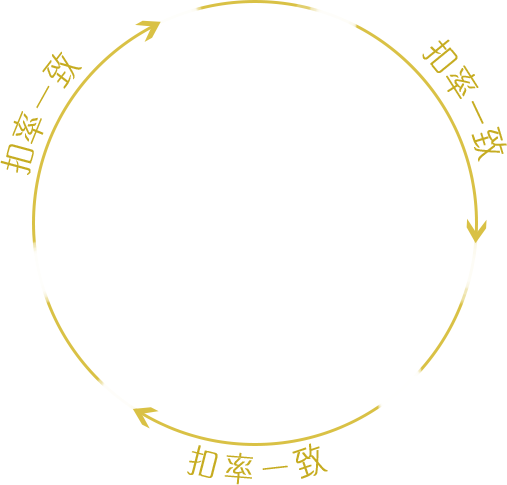
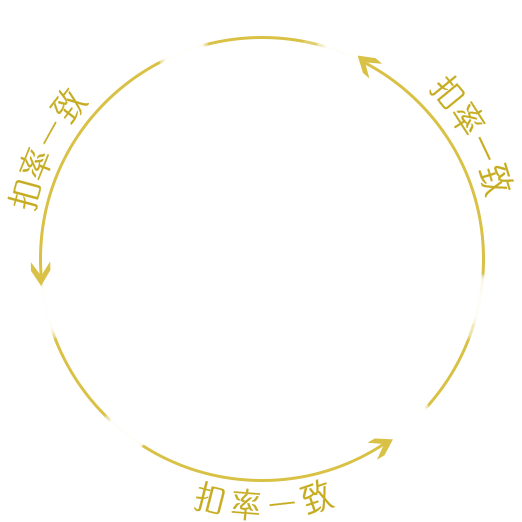
修改

diff --git a/src/App.vue b/src/App.vue
@@ -24,7 +24,7 @@
       <swiper-slide class="swiper-item">
         <div class="item item-2">
           <img class="jieshao" src="~@/assets/images/jieshao.png">
-          <img class="jieshao-detail" :class="{ 'delay-animation': isSecond }" src="~@/assets/images/item2bg.jpg">
+          <img class="jieshao-detail" :class="{ 'delay-animation': isSecond }" src="~@/assets/images/item2bg.png">
         </div>
       </swiper-slide>
       <swiper-slide class="swiper-item">
@@ -66,9 +66,10 @@
            <img class="jiamengbg" src="~@/assets/images/item6bg.png">
            <img class="triangle" :class="{ 'delay-animation': isSixth }" src="~@/assets/images/triangle.png">
            <img class="protocol" :class="{ 'delay-animation-1': isSixth }" src="~@/assets/images/protocol.png">
-           <img class="zuo" :class="{ 'delay-animation-2': isSixth }" src="~@/assets/images/zuo.png">
+           <img class="circle" :class="{ 'delay-animation-2': isSixth }" src="~@/assets/images/circle.png">
+           <!-- <img class="zuo" :class="{ 'delay-animation-2': isSixth }" src="~@/assets/images/zuo.png">
            <img class="xia" :class="{ 'delay-animation-2': isSixth }" src="~@/assets/images/xia.png">
-           <img class="you" :class="{ 'delay-animation-2': isSixth }" src="~@/assets/images/you.png">
+           <img class="you" :class="{ 'delay-animation-2': isSixth }" src="~@/assets/images/you.png"> -->
         </div>
       </swiper-slide>
       <swiper-slide class="swiper-item">
@@ -317,33 +318,33 @@ export default {
         shareicon: 'http://img.puman.cn/Content/iope/baicaoji.jpg' // 分享图片
       },
       dots: [
-        {  left: '2.72rem', top: '7.52rem', duration: '8s', delay: '0s', label: '新疆'},
-        {  left: '6.16rem', top: '7.5467rem', duration: '6s', delay: '3s', label: '内蒙古'},
-        {  left: '7.8667rem', top: '6.3733rem', duration: '8s', delay: '3s', label: '黑龙江'},
-        {  left: '8rem', top: '7.0133rem', duration: '8s', delay: '5s', label: '吉林'},
+        {  left: '2.72rem', top: '7.52rem', duration: '6s', delay: '0s', label: '新疆'},
+        {  left: '6.16rem', top: '7.5467rem', duration: '4s', delay: '3s', label: '内蒙古'},
+        {  left: '7.8667rem', top: '6.3733rem', duration: '6s', delay: '3s', label: '黑龙江'},
+        {  left: '8rem', top: '7.0133rem', duration: '4s', delay: '5s', label: '吉林'},
         {  left: '7.6rem', top: '7.44rem', duration: '6s', delay: '5s', label: '辽宁'},
-        {  left: '6.6667rem', top: '8.1067rem', duration: '10s', delay: '4s', label: '河北'},
-        {  left: '6.2667rem', top: '8.24rem', duration: '8s', delay: '4s', label: '山西'},
-        {  left: '7.0667rem', top: '8.3467rem', duration: '8s', delay: '2s', label: '山东'},
-        {  left: '6.48rem', top: '8.7733rem', duration: '6s', delay: '0s', label: '河南'},
-        {  left: '7.0667rem', top: '9.1467rem', duration: '10s', delay: '2s', label: '安徽'},
-        {  left: '7.4667rem', top: '8.9067rem', duration: '8s', delay: '4s', label: '江苏'},
-        {  left: '6.2933rem', top: '9.2267rem', duration: '6s', delay: '6s', label: '湖北'},
+        {  left: '6.6667rem', top: '8.1067rem', duration: '4s', delay: '4s', label: '河北'},
+        {  left: '6.2667rem', top: '8.24rem', duration: '6s', delay: '4s', label: '山西'},
+        {  left: '7.0667rem', top: '8.3467rem', duration: '4s', delay: '2s', label: '山东'},
+        {  left: '6.48rem', top: '8.7733rem', duration: '5s', delay: '0s', label: '河南'},
+        {  left: '7.0667rem', top: '9.1467rem', duration: '5s', delay: '2s', label: '安徽'},
+        {  left: '7.4667rem', top: '8.9067rem', duration: '6s', delay: '4s', label: '江苏'},
+        {  left: '6.2933rem', top: '9.2267rem', duration: '7s', delay: '6s', label: '湖北'},
         {  left: '6.9067rem', top: '9.7867rem', duration: '8s', delay: '8s', label: '江西'},
-        {  left: '7.2267rem', top: '10.0267rem', duration: '10s', delay: '4s', label: '福建'},
-        {  left: '7.52rem', top: '9.52rem', duration: '8s', delay: '6s', label: '浙江'},
-        {  left: '6.2933rem', top: '9.76rem', duration: '6s', delay: '8s', label: '湖南'},
+        {  left: '7.2267rem', top: '10.0267rem', duration: '5s', delay: '4s', label: '福建'},
+        {  left: '7.52rem', top: '9.52rem', duration: '4s', delay: '6s', label: '浙江'},
+        {  left: '6.2933rem', top: '9.76rem', duration: '5s', delay: '8s', label: '湖南'},
         {  left: '6.6133rem', top: '10.48rem', duration: '6s', delay: '10s', label: '广东'},
-        {  left: '5.84rem', top: '10.5067rem', duration: '6s', delay: '4s', label: '广西'},
-        {  left: '6.0267rem', top: '11.2rem', duration: '6s', delay: '4s', label: '海南'},
-        {  left: '4.6667rem', top: '10.4rem', duration: '10s', delay: '6s', label: '云南'},
-        {  left: '5.5733rem', top: '10rem', duration: '8s', delay: '6s', label: '贵州'},
-        {  left: '4.8533rem', top: '9.3333rem', duration: '6s', delay: '4s', label: '四川'},
-        {  left: '5.6533rem', top: '9.4933rem', duration: '6s', delay: '4s', label: '重庆'},
-        {  left: '3.9733rem', top: '8.5333rem', duration: '8s', delay: '0s', label: '青海'},
+        {  left: '5.84rem', top: '10.5067rem', duration: '7s', delay: '4s', label: '广西'},
+        {  left: '6.0267rem', top: '11.2rem', duration: '8s', delay: '4s', label: '海南'},
+        {  left: '4.6667rem', top: '10.4rem', duration: '7s', delay: '6s', label: '云南'},
+        {  left: '5.5733rem', top: '10rem', duration: '6s', delay: '6s', label: '贵州'},
+        {  left: '4.8533rem', top: '9.3333rem', duration: '5s', delay: '4s', label: '四川'},
+        {  left: '5.6533rem', top: '9.4933rem', duration: '4s', delay: '4s', label: '重庆'},
+        {  left: '3.9733rem', top: '8.5333rem', duration: '5s', delay: '0s', label: '青海'},
         {  left: '5.1467rem', top: '8.6133rem', duration: '6s', delay: '4s', label: '甘肃'},
-        {  left: '5.3867rem', top: '8.24rem', duration: '6s', delay: '2s', label: '宁夏'},
-        {  left: '5.7867rem', top: '8.8533rem', duration: '6s', delay: '2s', label: '陕西'},
+        {  left: '5.3867rem', top: '8.24rem', duration: '7s', delay: '2s', label: '宁夏'},
+        {  left: '5.7867rem', top: '8.8533rem', duration: '8s', delay: '2s', label: '陕西'},
       ]
     }
   },
@@ -609,58 +610,53 @@ export default {
       .group1 {
         position: absolute;
         width: 5.9733rem;
-        left: 0;
+        // left: -100%;
         top: 5.3333rem;
-        opacity: 0;
         &.delay-animation {
-          animation: fadeIn ease-in 2s forwards;
+          animation: slide2Left ease-in 1.5s forwards;
         }
       }
       .group2 {
         position: absolute;
         width: 4.0267rem;
-        right: 0;
+        right: -100%;
         top: 5.3333rem;
-        opacity: 0;
         &.delay-animation {
-          animation: fadeIn ease-in 2s forwards;
+          animation: slide2Right ease-in 1.5s forwards;
           animation-delay: 1s;
         }
       }
       .group3 {
         position: absolute;
         width: 2.8267rem;
-        left: 0;
+        left: -100%;
         top: 8.9333rem;
-        opacity: 0;
         z-index: 12;
         &.delay-animation {
-          animation: fadeIn ease-in 2s forwards;
+          animation: slide2Left ease-in 1.5s forwards;
           animation-delay: 2s;
         }
       }
       .group4 {
         position: absolute;
         width: 2.8533rem;
-        left: 0;
+        left: -100%;
         top: 11.78rem;
-        opacity: 0;
         z-index: 11;
         &.delay-animation {
-          animation: fadeIn ease-in 2s forwards;
-          animation-delay: 3s;
+          animation: slide2Left ease-in 1.5s forwards;
+          animation-delay: 2s;
         }
       }
       .group5 {
         position: absolute;
         width: 7.16rem;
-        right: 0;
+        right: -100%;
         top: 8.9333rem;
-        opacity: 0;
         z-index: 9;
         &.delay-animation {
-          animation: fadeIn ease-in 2s forwards;
-          animation-delay: 4s;
+          animation: slide2Right ease-in 1.5s forwards;
+          animation-delay: 3s;
         }
       }
     }
@@ -689,7 +685,7 @@ export default {
         top: 4.74rem;
         opacity: 0;
         &.delay-animation {
-          animation: fadeIn ease-in 2s forwards;
+          animation: fadeIn ease-in 1.5s forwards;
           animation-delay: 1s;
         }
       }
@@ -700,7 +696,7 @@ export default {
         top: 5.52rem;
         opacity: 0;
         &.delay-animation {
-          animation: fadeIn ease-in 2s forwards;
+          animation: fadeIn ease-in 1.5s forwards;
           animation-delay: 2s;
         }
       }
@@ -711,7 +707,7 @@ export default {
         top: 6.57rem;
         opacity: 0;
         &.delay-animation {
-          animation: fadeIn ease-in 2s forwards;
+          animation: fadeIn ease-in 1.5s forwards;
           animation-delay: 3s;
         }
       }
@@ -722,7 +718,7 @@ export default {
         top: 6.60rem;
         opacity: 0;
         &.delay-animation {
-          animation: fadeIn ease-in 2s forwards;
+          animation: fadeIn ease-in 1.5s forwards;
           animation-delay: 4s;
         }
       }
@@ -733,7 +729,7 @@ export default {
         top: 8.60rem;
         opacity: 0;
         &.delay-animation {
-          animation: fadeIn ease-in 2s forwards;
+          animation: fadeIn ease-in 1.5s forwards;
           animation-delay: 5s;
         }
       }
@@ -744,7 +740,7 @@ export default {
         top: 8.75rem;
         opacity: 0;
         &.delay-animation {
-          animation: fadeIn ease-in 2s forwards;
+          animation: fadeIn ease-in 1.5s forwards;
           animation-delay: 6s;
         }
       }
@@ -755,7 +751,7 @@ export default {
         top: 11.10rem;
         opacity: 0;
         &.delay-animation {
-          animation: fadeIn ease-in 2s forwards;
+          animation: fadeIn ease-in 1.5s forwards;
           animation-delay: 7s;
         }
       }
@@ -821,6 +817,18 @@ export default {
         &.delay-animation-1 {
           animation: fadeIn  3s forwards;
           animation-delay: 1s;
+        }
+      }
+      .circle {
+        position: absolute;
+        width: 6.96rem;
+        left: 50%;
+        margin-left: -3.48rem;
+        top: 7.1rem;
+        opacity: 0;
+        &.delay-animation-2 {
+          animation: fadeThenSpin  4s forwards;
+          animation-delay: 2s;
         }
       }
        .zuo {
@@ -1344,6 +1352,12 @@ export default {
 .fadeIn {
   animation: fadeIn .7s;
 }
+@keyframes fadeThenSpin {
+  0% { opacity:0; }
+  40% { opacity:1; }
+  50% { transform: rotate(0); opacity: 1; }
+  100% { transform: rotate(-360deg);opacity: 1; }
+}
 @keyframes fadeIn {
   0% { opacity:0; }
   100% { opacity:1; }
@@ -1370,6 +1384,14 @@ export default {
 @keyframes slideFromLeft {
   0% { right: 100%; }
   100% { right: 6.4rem; }
+}
+@keyframes slide2Left {
+  0% { left: -100%; }
+  100% { left: 0; }
+}
+@keyframes slide2Right {
+  0% { right: -100%; }
+  100% { right: 0; }
 }
 @keyframes slideFromLeft2 {
   0% { right: 100%; }
